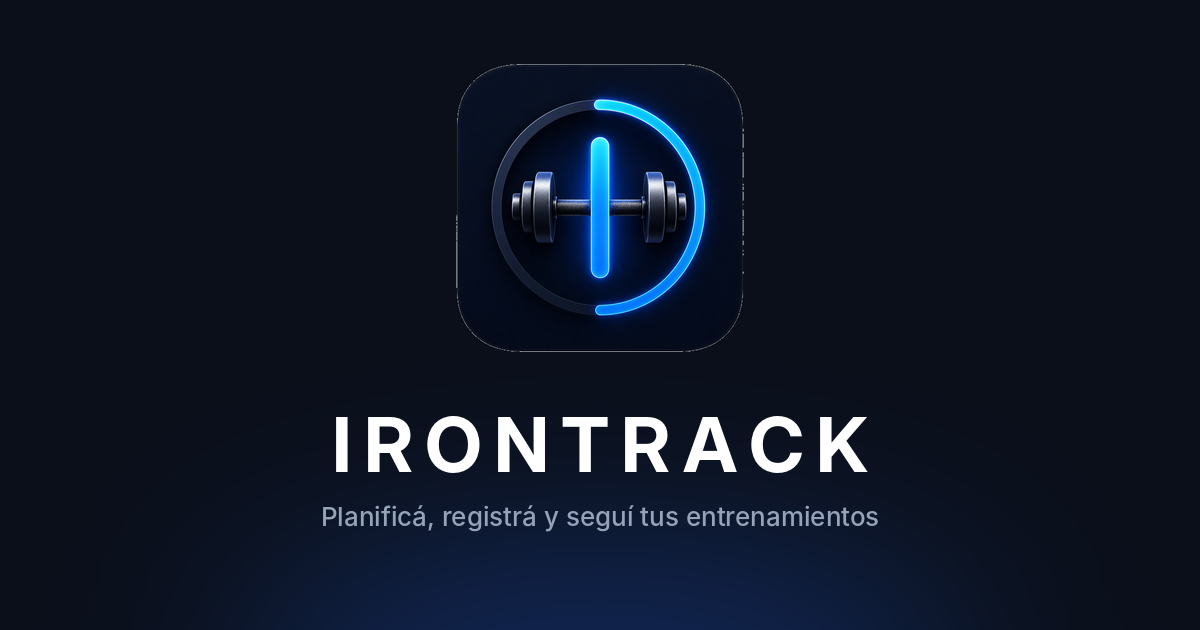
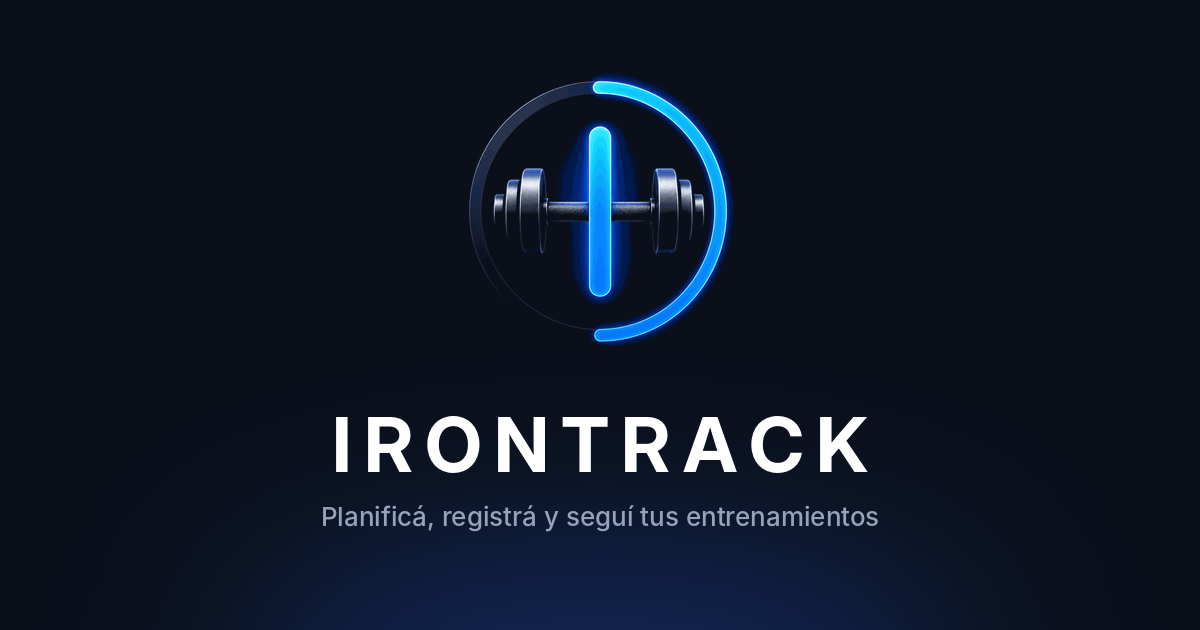
fix(og): isotipo sin baldosa en la imagen Open Graph
- public/og-image.png: el simbolo sale de public/isotipo-onboarding.png
  (alfa real, sin baldosa) compuesto directamente sobre #0A0F1A a 304 px;
  texto, descripcion, posiciones y 1200x630 sin cambios.
- index.html: og:image, og:image:secure_url y twitter:image a ?v=2 para
  invalidar la cache de la vista previa anterior.
- scripts/test-ogMeta.mjs: ?v=2 y verificacion de que alrededor del isotipo
  (incluida la zona de la ex-baldosa) solo hay fondo #0A0F1A.

Claude-Session: https://claude.ai/code/session_01YPGR3NbHUWopMovWMmLmSs

Changed region(s): [[0.37, 0.1206, 0.6167, 0.573]]

diff --git a/index.html b/index.html
@@ -11,8 +11,8 @@
     <meta property="og:title" content="IronTrack" />
     <meta property="og:description" content="Planificá, registrá y seguí tus entrenamientos" />
     <meta property="og:url" content="https://irontrack-k.vercel.app/" />
-    <meta property="og:image" content="https://irontrack-k.vercel.app/og-image.png?v=1" />
-    <meta property="og:image:secure_url" content="https://irontrack-k.vercel.app/og-image.png?v=1" />
+    <meta property="og:image" content="https://irontrack-k.vercel.app/og-image.png?v=2" />
+    <meta property="og:image:secure_url" content="https://irontrack-k.vercel.app/og-image.png?v=2" />
     <meta property="og:image:type" content="image/png" />
     <meta property="og:image:width" content="1200" />
     <meta property="og:image:height" content="630" />
@@ -20,7 +20,7 @@
     <meta name="twitter:card" content="summary_large_image" />
     <meta name="twitter:title" content="IronTrack" />
     <meta name="twitter:description" content="Planificá, registrá y seguí tus entrenamientos" />
-    <meta name="twitter:image" content="https://irontrack-k.vercel.app/og-image.png?v=1" />
+    <meta name="twitter:image" content="https://irontrack-k.vercel.app/og-image.png?v=2" />
     <meta name="twitter:image:alt" content="Logo de IronTrack sobre fondo oscuro" />
     <meta name="theme-color" content="#0A0F1A"/>
     <link rel="icon" type="image/png" sizes="32x32" href="/icons/favicon-32.png" />
